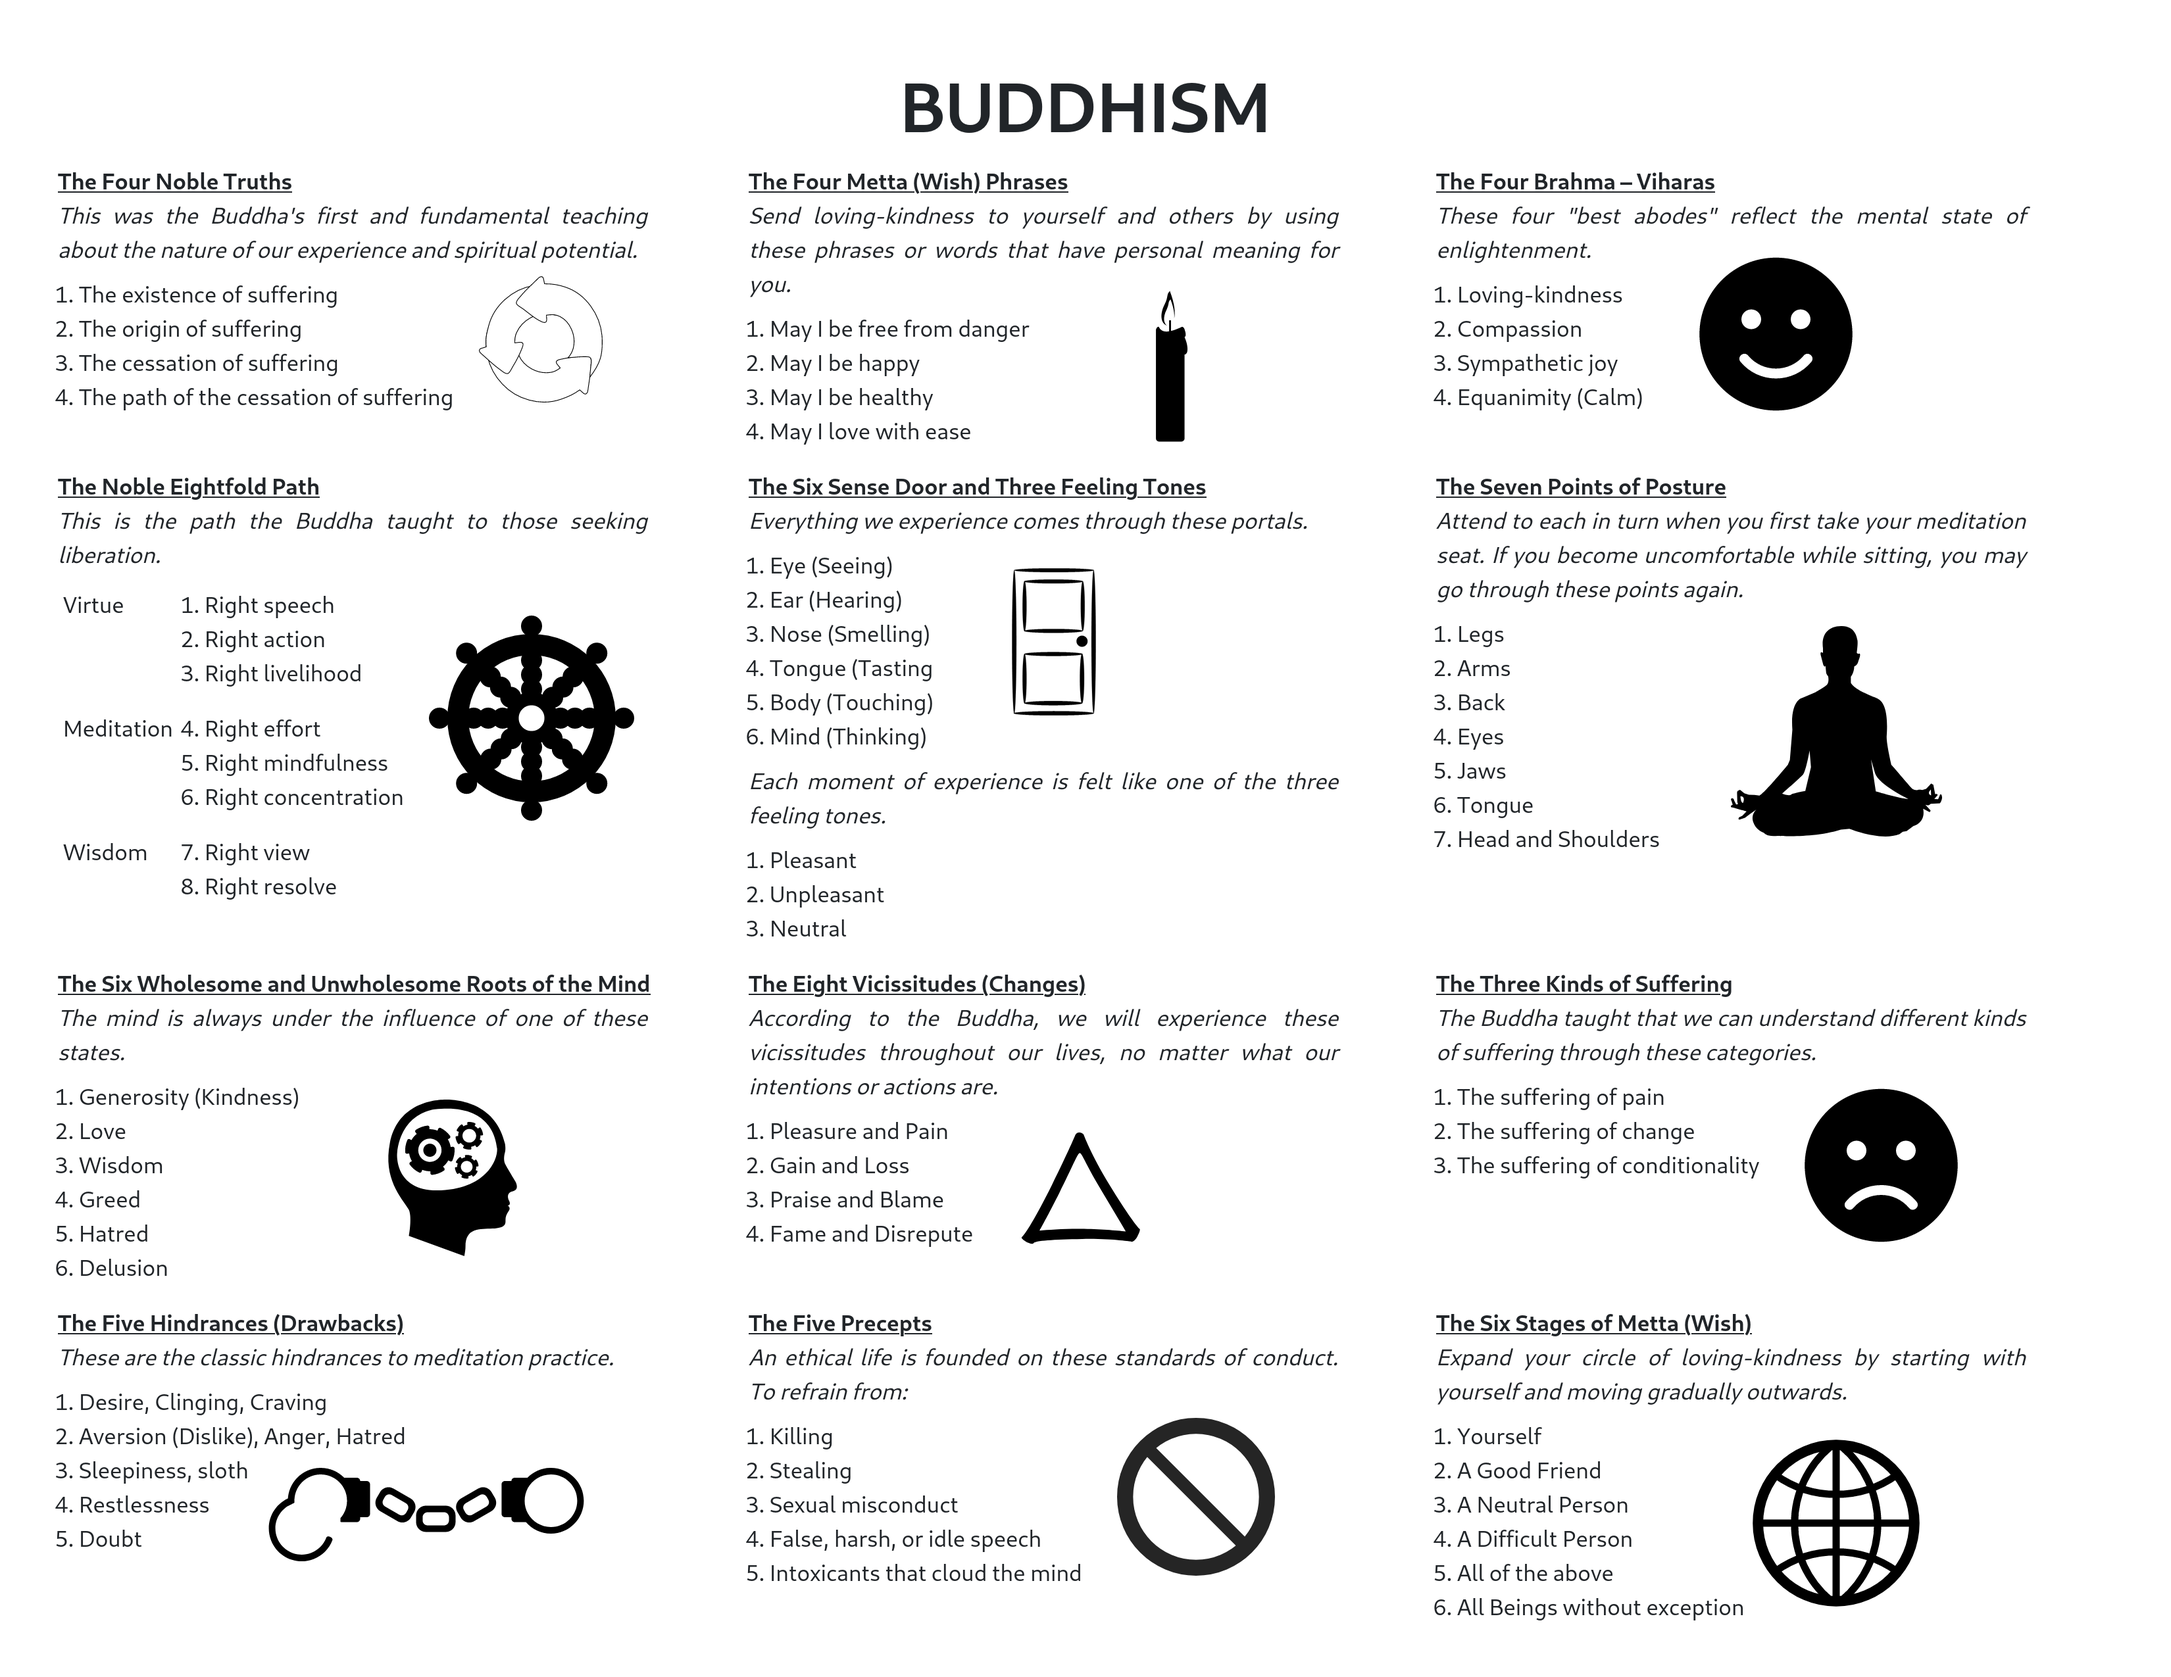
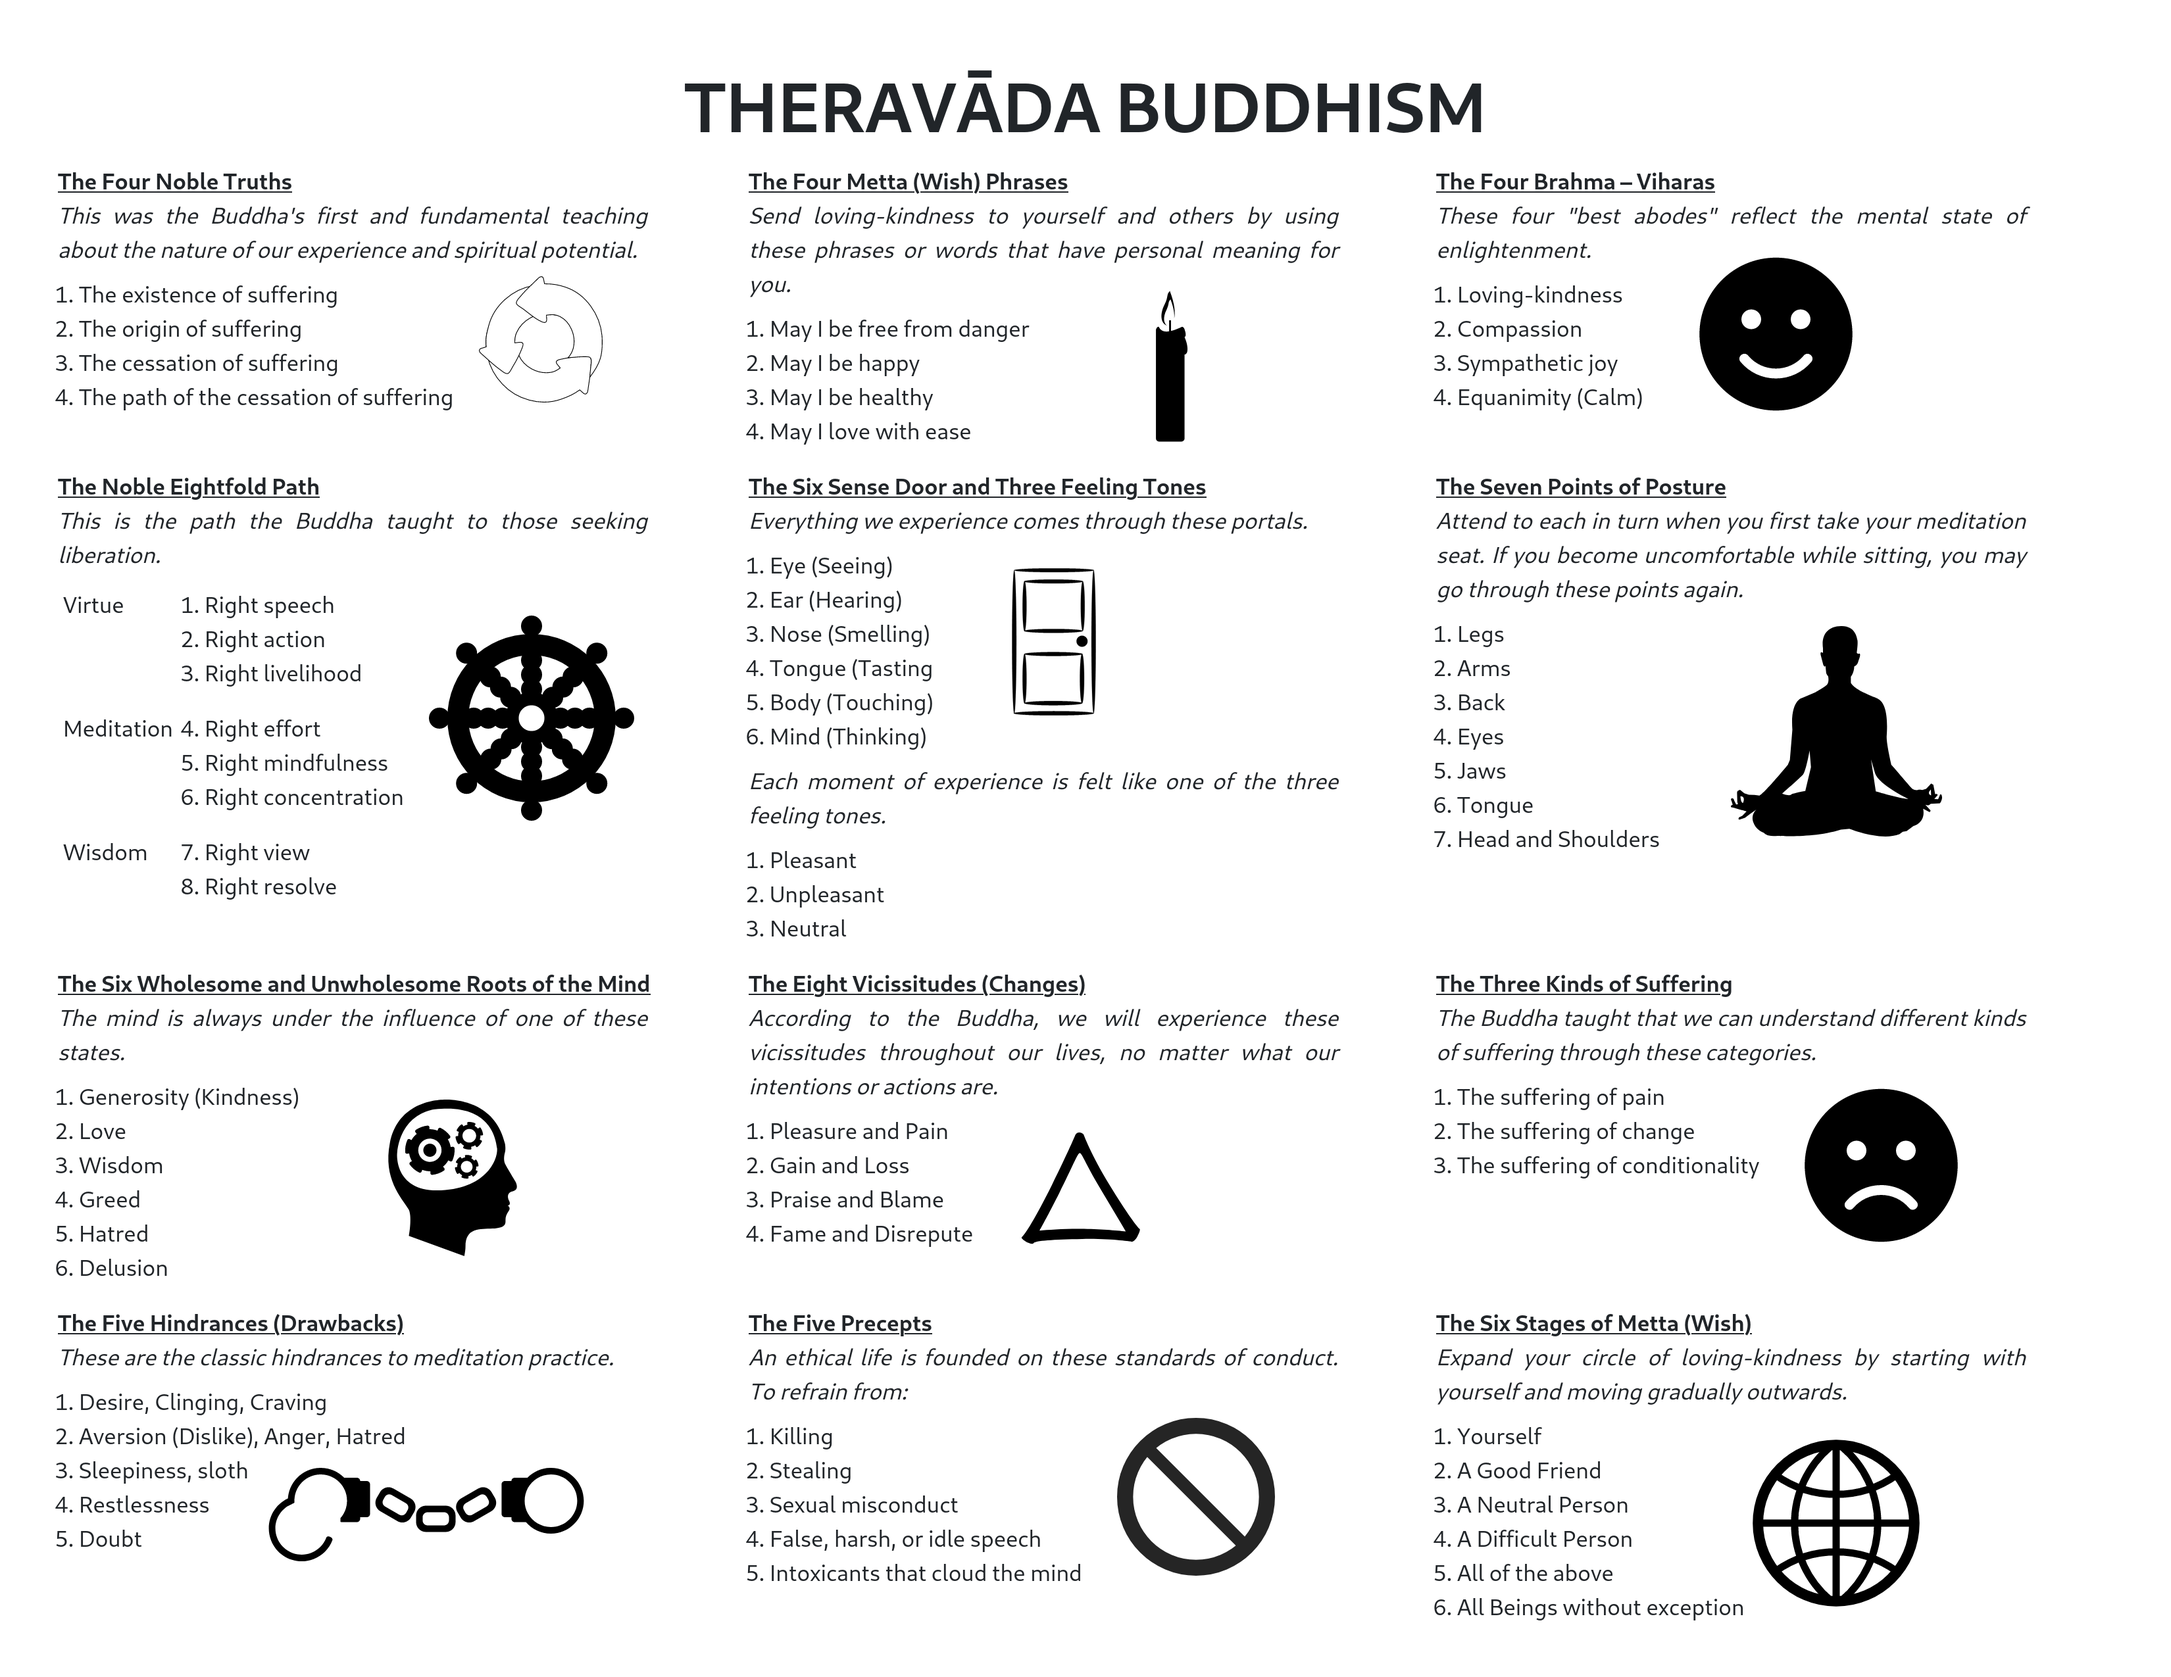
Change chart title to reflect that it is most representative of Theravāda

Changed region(s): [[0.3121, 0.031, 0.6867, 0.0929]]

diff --git a/index.html b/index.html
@@ -37,7 +37,7 @@
 <body>
     <div class="letter300dpi">
         <div style="padding: 5rem; height: 100%; width: 100%;">
-            <div style="text-align: center; font-size: 80pt;"><b>BUDDHISM</b></div>
+            <div style="text-align: center; font-size: 80pt;"><b>THERAVĀDA BUDDHISM</b></div>
             <table class="table">
                 <tbody>
                     <tr>
